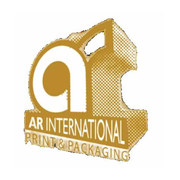
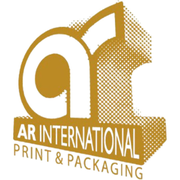
Add files via upload

diff --git a/index.html b/index.html
@@ -3,17 +3,26 @@
 <head>
   <meta charset="UTF-8">
   <meta name="viewport" content="width=device-width, initial-scale=1.0">
-  <meta name="description" content="AR International — eco-friendly, non-woven, laminated and custom packaging bags.">
-  <meta name="theme-color" content="#145b18">
-  <title>AR International | Print & Packaging</title>
+  <meta name="description" content="AR International offers non-woven bags, laminated shopping bags, printed poly bags, courier bags and eco-friendly packaging solutions in Karachi, Pakistan.">
+  <meta name="robots" content="index, follow, max-image-preview:large">
+  <meta name="theme-color" content="#ffffff">
+  <title>AR International | Printing & Packaging Solutions in Karachi</title>
   <link rel="canonical" href="https://arinternational.store/">
-  <link rel="icon" type="image/png" href="favicon.png">
-  <link rel="apple-touch-icon" href="apple-touch-icon.png">
+  <link rel="icon" href="/favicon.ico" sizes="any">
+  <link rel="icon" type="image/png" href="/favicon.png" sizes="64x64">
+  <link rel="apple-touch-icon" sizes="180x180" href="/apple-touch-icon.png">
   <meta property="og:type" content="website">
-  <meta property="og:title" content="AR International | Print & Packaging">
-  <meta property="og:description" content="Eco-friendly bags, printed poly bags, laminated packaging and custom packaging solutions.">
+  <meta property="og:site_name" content="AR International">
+  <meta property="og:title" content="AR International | Printing & Packaging Solutions">
+  <meta property="og:description" content="Explore custom printed, non-woven, laminated and eco-friendly packaging bags from AR International in Karachi.">
   <meta property="og:url" content="https://arinternational.store/">
-  <meta property="og:image" content="https://arinternational.store/assets/ar-international-logo.png">
+  <meta property="og:image" content="https://arinternational.store/logo.jpg">
+  <meta property="og:image:alt" content="AR International Print & Packaging logo">
+  <meta name="twitter:card" content="summary_large_image">
+  <meta name="twitter:title" content="AR International | Print & Packaging">
+  <meta name="twitter:description" content="Printed, non-woven, laminated and eco-friendly packaging solutions in Karachi.">
+  <meta name="twitter:image" content="https://arinternational.store/logo.jpg">
+  <script type="application/ld+json">{"@context":"https://schema.org","@type":"Organization","name":"AR International","url":"https://arinternational.store/","logo":"https://arinternational.store/logo.jpg","image":"https://arinternational.store/logo.jpg","description":"AR International provides printed poly bags, non-woven bags, laminated shopping bags, courier bags and eco-friendly packaging solutions in Karachi, Pakistan.","email":"arint.khi@gmail.com","telephone":"+92-300-2728660","address":{"@type":"PostalAddress","streetAddress":"Saima Sareena, 10th Floor, Flat No. 1004, Plot No. 3/E, Nazimabad No. 3","addressLocality":"Karachi","addressCountry":"PK"},"contactPoint":[{"@type":"ContactPoint","telephone":"+92-300-2728660","contactType":"customer service"},{"@type":"ContactPoint","telephone":"+92-321-9257825","contactType":"customer service"}]}</script>
   <link rel="preconnect" href="https://fonts.googleapis.com">
   <link rel="preconnect" href="https://fonts.gstatic.com" crossorigin>
   <link href="https://fonts.googleapis.com/css2?family=DM+Sans:wght@400;500;600;700;800&display=swap" rel="stylesheet">
@@ -22,7 +31,7 @@
 <body>
 <header class="site-header">
   <a class="brand" href="#home" aria-label="AR International home">
-    <img src="assets/ar-international-logo.png" alt="AR International logo">
+    <img src="assets/ar-international-logo.jpg" alt="AR International Print & Packaging gold logo">
   </a>
   <button class="menu-toggle" aria-label="Toggle navigation" aria-expanded="false">☰</button>
   <nav class="nav">
@@ -134,7 +143,7 @@
   </div>
 </section>
 </main>
-<footer><img src="assets/ar-international-logo.png" alt="AR International"><p>AR International · Print &amp; Packaging</p><small>© <span id="year"></span> AR International. All rights reserved.</small></footer>
+<footer><img src="assets/ar-international-logo.jpg" alt="AR International"><p>AR International · Print &amp; Packaging</p><small>© <span id="year"></span> AR International. All rights reserved.</small></footer>
 <script src="script.js"></script>
 </body>
 </html>
